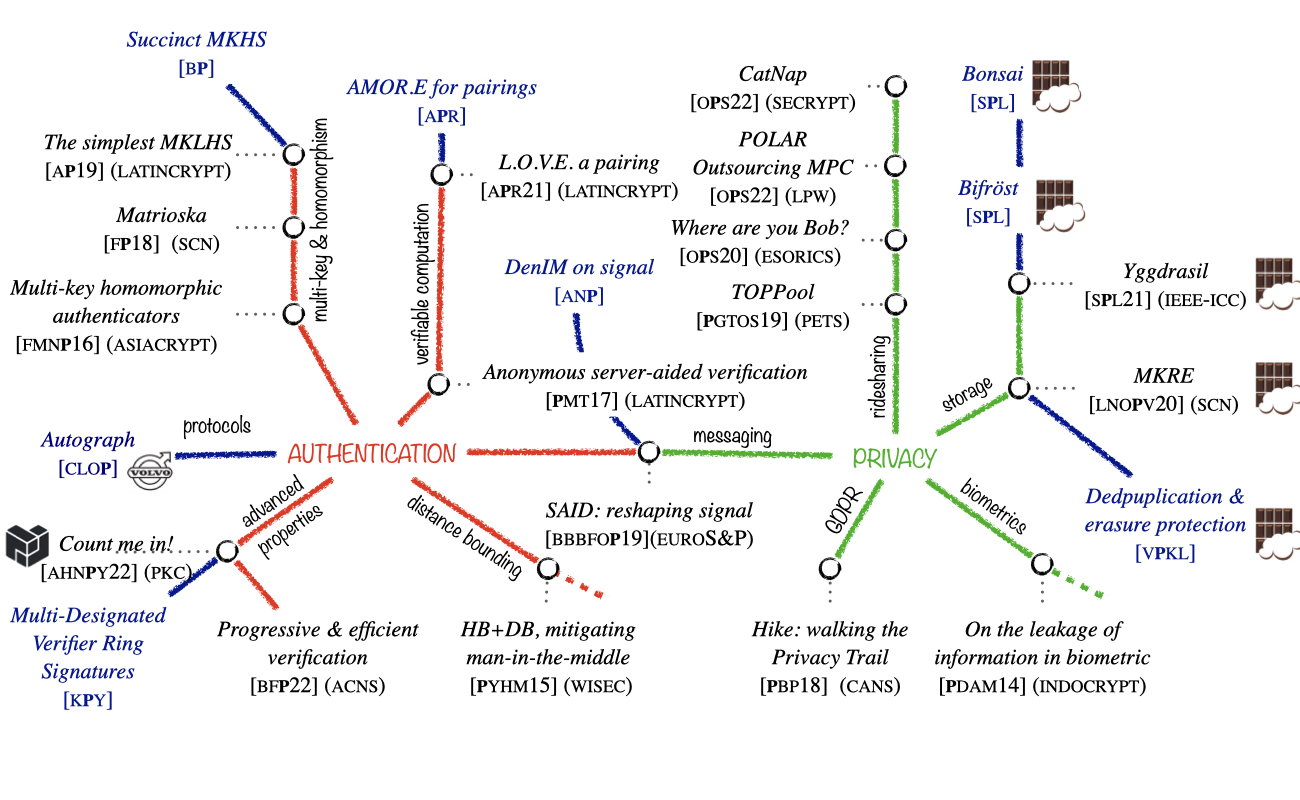
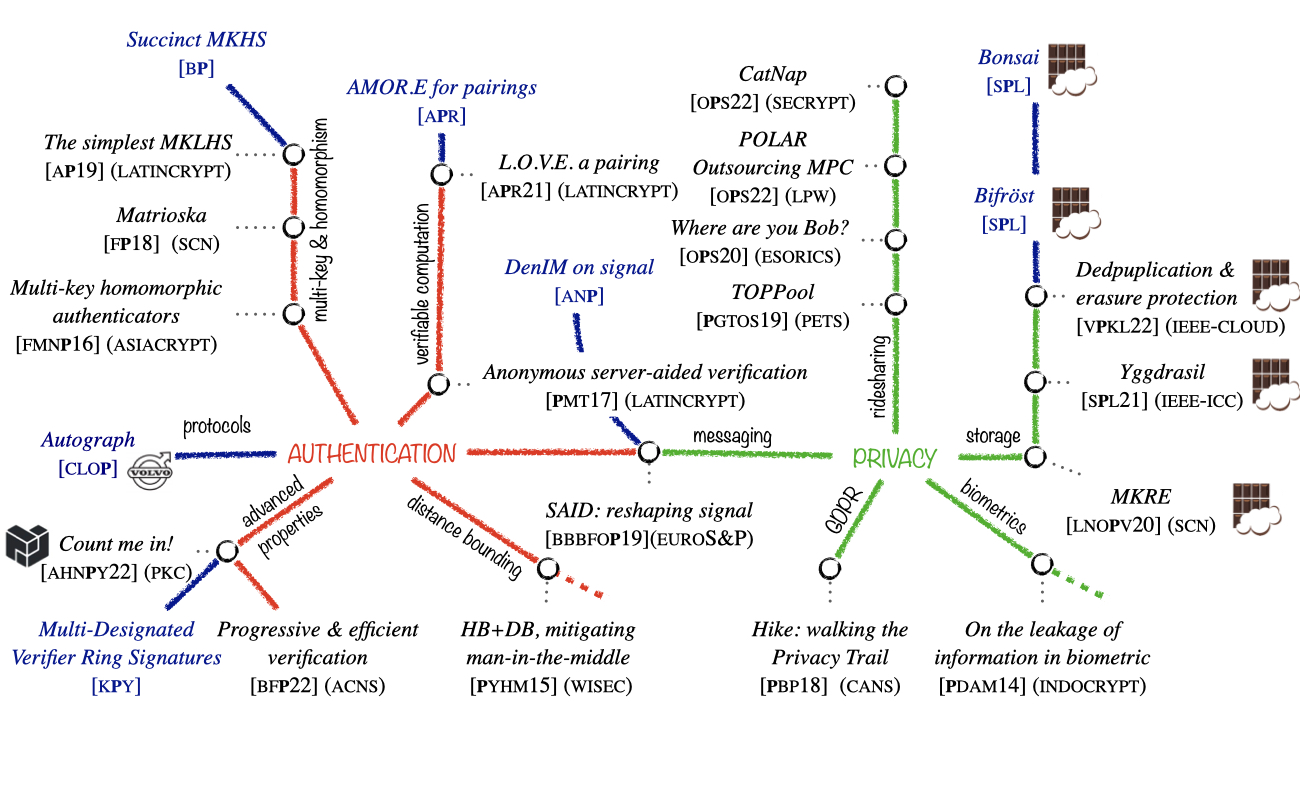
updates

Changed region(s): [[0.7077, 0.0312, 1.0, 0.7188], [0.0, 0.7188, 0.1846, 0.9062], [0.1538, 0.6875, 0.1846, 0.7188]]

diff --git a/papers/2022-catnap/index.html b/papers/2022-catnap/index.html
@@ -3,7 +3,7 @@
     <meta charset="utf-8">
     <meta name="viewport" content="width=device-width, initial-scale=1, shrink-to-fit=no">
 
-    <title>Outsourcing MPC Precomputation for Location Privacy</title>
+    <title>CatNap: Practical and actively secure proximity testing with a napping party based on generic MPC techniques</title>
     <meta name="description" content="My personal webpage (mostly academic stuff)">
     <meta name="author" content='Elena Pagnin'>
 
@@ -67,21 +67,22 @@
 <div id="content">
 <link rel="stylesheet" href="https://cdnjs.cloudflare.com/ajax/libs/font-awesome/4.7.0/css/font-awesome.min.css">
 <div class="container">
-    <h1>Outsourcing MPC Precomputation for Location Privacy</h1>
+    <h1>CatNap: Practical and actively secure proximity testing with a napping party based on generic MPC techniques</h1>
     <hr>
     Authors: <i>I. Oleynikov, E. Pagnin, A. Sabelfeld</i> 
     <br>
-    In: Location Privacy Workshop, 
+    In: 19th International Conference on Security and Cryptography, 
 	2022
 	<br>
 	Full Text: 
-	<a href="https://www.cse.chalmers.se/research/group/security/polar/polar-lpw-2022.pdf"><i class="fas fa-file"></i></a>
+	<a href="https://www.cse.chalmers.se/research/group/security/catnap/catnap-extended.pdf"><i class="fas fa-file"></i></a>
 	 
     <hr>
      <h3>Abstract</h3>
-    <p>Proximity testing is at the core of several Location-Based Services (LBS) offered by, e.g., Uber, Facebook, and BlaBlaCar, as it determines closeness to a target. Unfortunately, modern LBS demand not only that clients disclose their locations in plain, but also to trust that the services will not abuse this information. These requirements are unfounded as there are ways to perform proximity testing without revealing one’s location.
-We propose POLAR, a protocol that implements privacy-preserving proximity testing for LBS. POLAR is suitable for clients running mobile devices, and relies on a careful combination of three well-established multiparty computation protocols and lightweight cryptography. A point
-of originality is the inclusion of two servers into the proximity testing. The servers may aid multiple pairs of clients and contribute towards enhancing privacy, improving effciency, and reducing the running time of clients’ procedures.</p>
+    <p>Proximity testing functionality is at the core of most LocationBased Services (LBS). In a nutshell, proximity testing takes the locations of two clients from them and produces a single bit of result telling whether the clients are within each other’s proximity or not. Currently existing LBS require full trust from their clients; in order to use the service, clients have to disclose their locations in plain and trust that the service will not misuse them. Clamorous precedents of such misuse motivate the search for solutions which would ensure the privacy of client location.</p>
+<p>In this paper, we present CatNap, a novel cryptographic protocol to perform proximity testing in a privacy-preserving manner. We focus on Euclidean distance based matching: clients are considered to be in proximity if the Euclidean distance between them is below a chosen threshold value.
+The protocol involves two clients and two servers. The clients submit their location data to the servers, and then one of them retrieves the proximity testing result. Additionally, our protocol implements the “napping party” feature: the clients do not depend on each other’s presence to submit the data. This property is cricual to make proximity testing practical, because it allows clients to use the functionality without having to be simultaneously online.
+The CatNap achieves active security and allows any subset of parties to be corrupted as long as one of the two servers is honest. Unlike previous ad-hoc solutions, our protocol relies on a blackbox use of generic Multi-Party Computation (MPC) techniques. Importantly, the MPC building block employed in our protocol can be effortlessly replaced by future, more effcient implementations of the functionality, thus directly improving our performance. We provide a proof of concept implementation of our protocol using off-the-shelf MPC libraries and evaluate its performance in terms of computation and communication cost.</p>
 <p><strong>Keywords:</strong>
 Privacy, Proximity-Testing, Multiparty Computation, Active Security.</p>
 

diff --git a/papers/2022-deer/index.html b/papers/2022-deer/index.html
@@ -3,7 +3,7 @@
     <meta charset="utf-8">
     <meta name="viewport" content="width=device-width, initial-scale=1, shrink-to-fit=no">
 
-    <title>Outsourcing MPC Precomputation for Location Privacy</title>
+    <title>Secure Cloud Storage with Joint Deduplication and Erasure Protection</title>
     <meta name="description" content="My personal webpage (mostly academic stuff)">
     <meta name="author" content='Elena Pagnin'>
 
@@ -67,23 +67,21 @@
 <div id="content">
 <link rel="stylesheet" href="https://cdnjs.cloudflare.com/ajax/libs/font-awesome/4.7.0/css/font-awesome.min.css">
 <div class="container">
-    <h1>Outsourcing MPC Precomputation for Location Privacy</h1>
+    <h1>Secure Cloud Storage with Joint Deduplication and Erasure Protection</h1>
     <hr>
-    Authors: <i>I. Oleynikov, E. Pagnin, A. Sabelfeld</i> 
+    Authors: <i>R. Vestergaard, E. Pagnin, R. Kundu, and D. Lucani</i> 
     <br>
-    In: Location Privacy Workshop, 
+    In: IEEE International Conference on Cloud Computing, 
 	2022
 	<br>
 	Full Text: 
-	<a href="https://www.cse.chalmers.se/research/group/security/polar/polar-lpw-2022.pdf"><i class="fas fa-file"></i></a>
+	<a href=""><i class="fas fa-file"></i></a>
 	 
     <hr>
      <h3>Abstract</h3>
-    <p>Proximity testing is at the core of several Location-Based Services (LBS) offered by, e.g., Uber, Facebook, and BlaBlaCar, as it determines closeness to a target. Unfortunately, modern LBS demand not only that clients disclose their locations in plain, but also to trust that the services will not abuse this information. These requirements are unfounded as there are ways to perform proximity testing without revealing one’s location.
-We propose POLAR, a protocol that implements privacy-preserving proximity testing for LBS. POLAR is suitable for clients running mobile devices, and relies on a careful combination of three well-established multiparty computation protocols and lightweight cryptography. A point
-of originality is the inclusion of two servers into the proximity testing. The servers may aid multiple pairs of clients and contribute towards enhancing privacy, improving effciency, and reducing the running time of clients’ procedures.</p>
+    <p>This work proposes a novel design for secure cloud storage systems using a third party to meet three seemingly opposing demands: reduce storage requirements on the Cloud, protect against erasures (data loss), and maintain confidentiality of the data. More specifically, we achieve storage cost reductions using data deduplication without requiring system Users to trust the Cloud operates honestly. We analyze the security of our scheme against various types of rational, malicious adversaries that may collude with multiple parties and show that no novel sensitive information can be inferred, assuming random oracles and a high min-entropy data source. We also provide a mathematical analysis to characterize its potential for compression given the popularity of individual chunks of data and its overall erasure protection capabilities. In fact, we show that the storage cost of our scheme for a chunk with 𝑟 replicas is 𝑂(log(r)/r), while deduplication without security or reliability considerations is O(1/r), i.e., our added cost for providing reliability and security is only 𝑂(log(𝑟)). We provide a proof of concept implementation to simulate performance and verify our analytical results</p>
 <p><strong>Keywords:</strong>
-Privacy, Proximity-Testing, Multiparty Computation, Active Security.</p>
+Secure Storage, Generalized Data Deduplication, Erasure Protection.</p>
 
 </div>
 

diff --git a/index.html b/index.html
@@ -74,7 +74,7 @@
 </figure>
 
 <p>I am an <em>Assistant Professor</em> (Biträdande Universitetslektor) at Lund University (<em>LTH</em>),
-where I joined the <a href="https://www.eit.lth.se/index.php?gpuid=508&amp;L=1">CRYSPY lab</a> (CRYprography, Security and PrivacY) in 2020.
+where I joined the <a href="https://www.eit.lth.se/index.php?gpuid=508&amp;L=1">CRYSPY lab</a> (CRYptography, Security and PrivacY) in 2020.
 Prior to coming to Lund, I have been a post doctoral researcher at the <a href="https://cs.au.dk/~orlandi/cryptogroup/">Aarhus crypto group</a>.
 I completed my Ph.D. in 2019, at the Department of Computer Science &amp; Engineering in <a href="http://www.cse.chalmers.se/~elenap/">Chalmers</a> University of Technology (Göteborg - Sweden).
 You can find a detailed pdf-version of my <strong>CV</strong> <a href="/cv">here</a>.</p>
@@ -121,15 +121,15 @@ If you want to learn more about what I do, check out my <a href="/research/">res
 
 <ul>
 
- (SECRYPT22)  <a href="https://epagnin.github.io/papers/2022-polar-copy/">CatNap: Practical and actively secure proximity testing with a napping party based on generic MPC techniques</a> <br>
+ (IEEE-Cloud22)  <a href="https://epagnin.github.io/papers/2022-deer/">Secure Cloud Storage with Joint Deduplication and Erasure Protection</a> <br>
+
+ (SECRYPT22)  <a href="https://epagnin.github.io/papers/2022-catnap/">CatNap: Practical and actively secure proximity testing with a napping party based on generic MPC techniques</a> <br>
 
  (LPW22)  <a href="https://epagnin.github.io/papers/2022-polar/">Outsourcing MPC Precomputation for Location Privacy</a> <br>
 
  (ACNS22)  <a href="https://epagnin.github.io/papers/2022-flabs/">Progressive And Effcient Verification For Digital Signatures</a> <br>
 
  (PKC22)  <a href="https://epagnin.github.io/papers/2022-extrs/">Count Me In! Extendability for Threshold Ring Signatures</a> <br>
-
- (LatinCrypt21)  <a href="https://epagnin.github.io/papers/2021-love/">LOVE a Pairing</a> <br>
 
 </ul>
 

diff --git a/papers/index.html b/papers/index.html
@@ -77,10 +77,16 @@
             <a href=""><span class="emoji" role="img" title="read the article">📄</span></a>  
  			 
  			|
- 			<a href="https://epagnin.github.io/papers/2022-polar-copy/"> CatNap: Practical and actively secure proximity testing with a napping party based on generic MPC techniques</a> </li>
+ 			<a href="https://epagnin.github.io/papers/2022-deer/"> Secure Cloud Storage with Joint Deduplication and Erasure Protection</a> </li>
         
             <li>2022 | 
-            <a href=""><span class="emoji" role="img" title="read the article">📄</span></a>  
+            <a href="https://www.cse.chalmers.se/research/group/security/catnap/catnap-extended.pdf"><span class="emoji" role="img" title="read the article">📄</span></a>  
+ 			 
+ 			|
+ 			<a href="https://epagnin.github.io/papers/2022-catnap/"> CatNap: Practical and actively secure proximity testing with a napping party based on generic MPC techniques</a> </li>
+        
+            <li>2022 | 
+            <a href="https://www.cse.chalmers.se/research/group/security/polar/polar-lpw-2022.pdf"><span class="emoji" role="img" title="read the article">📄</span></a>  
  			 
  			|
  			<a href="https://epagnin.github.io/papers/2022-polar/"> Outsourcing MPC Precomputation for Location Privacy</a> </li>

diff --git a/deadlines/index.html b/deadlines/index.html
@@ -172,9 +172,9 @@ The ranking and selection is according to my taste (<em>De gustibus non disputan
 		 
     <ul>
 
- <p>
-     <a href="https://2022.pqcrypto.org/index.html"><b>PQC</b></a>
-     
+    <p style="color:#A0A0A0">
+     <a class="dark" href="https://2022.pqcrypto.org/index.html">PQC</a>
+  
      [C] 
      | Submission: <b>Tue 10 
           
